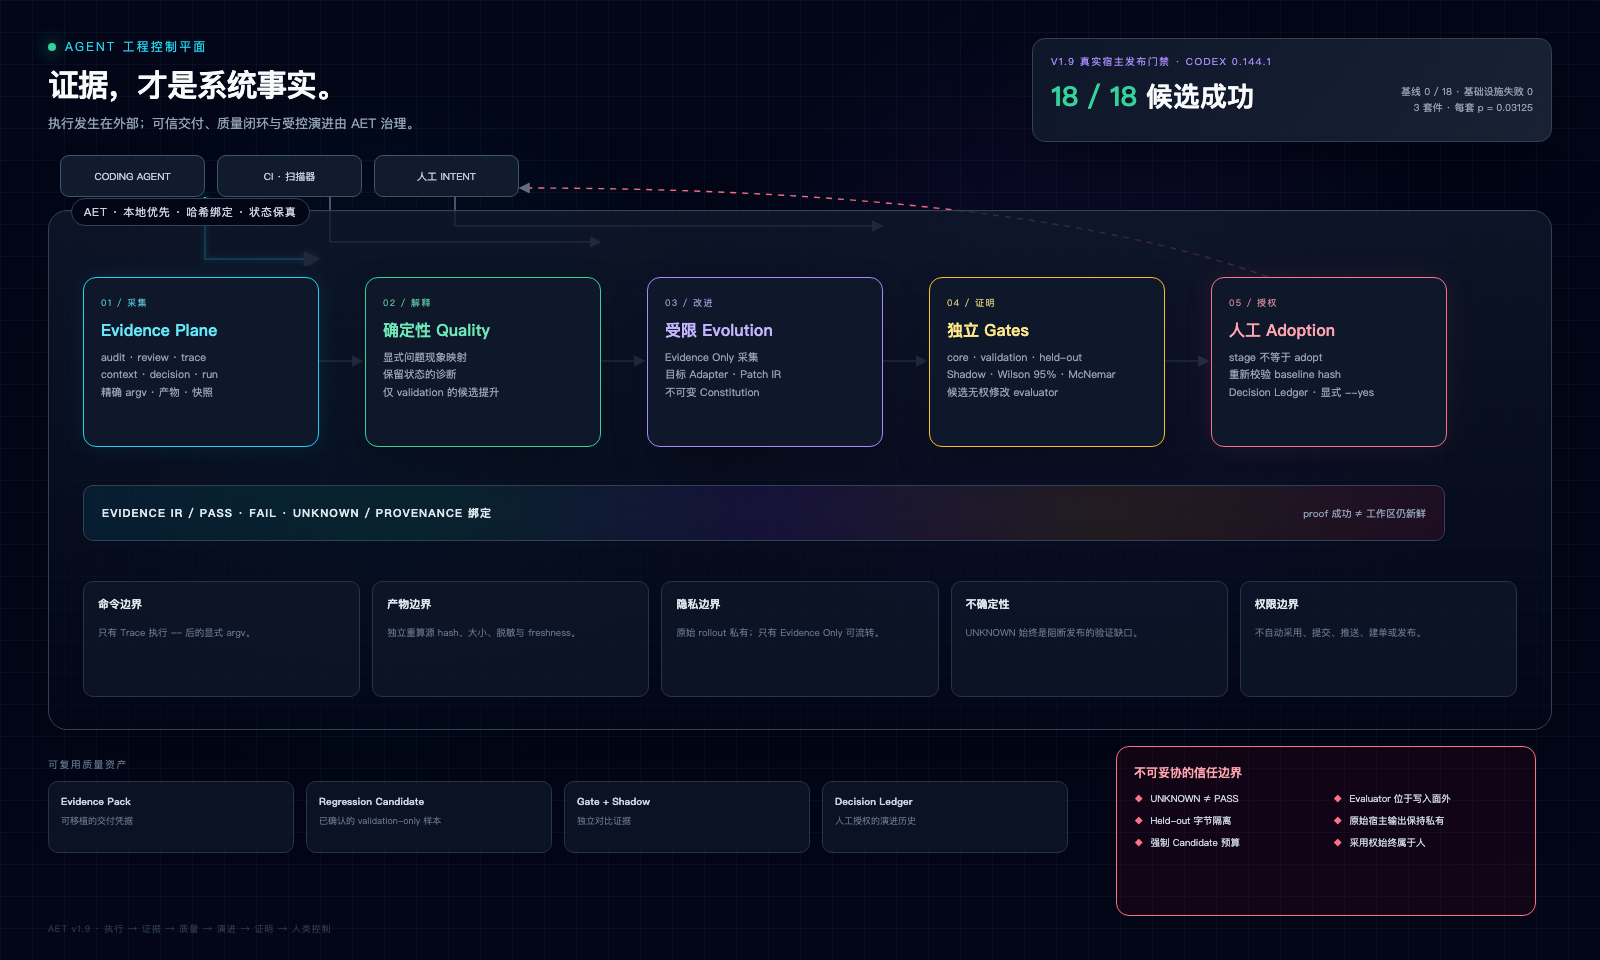
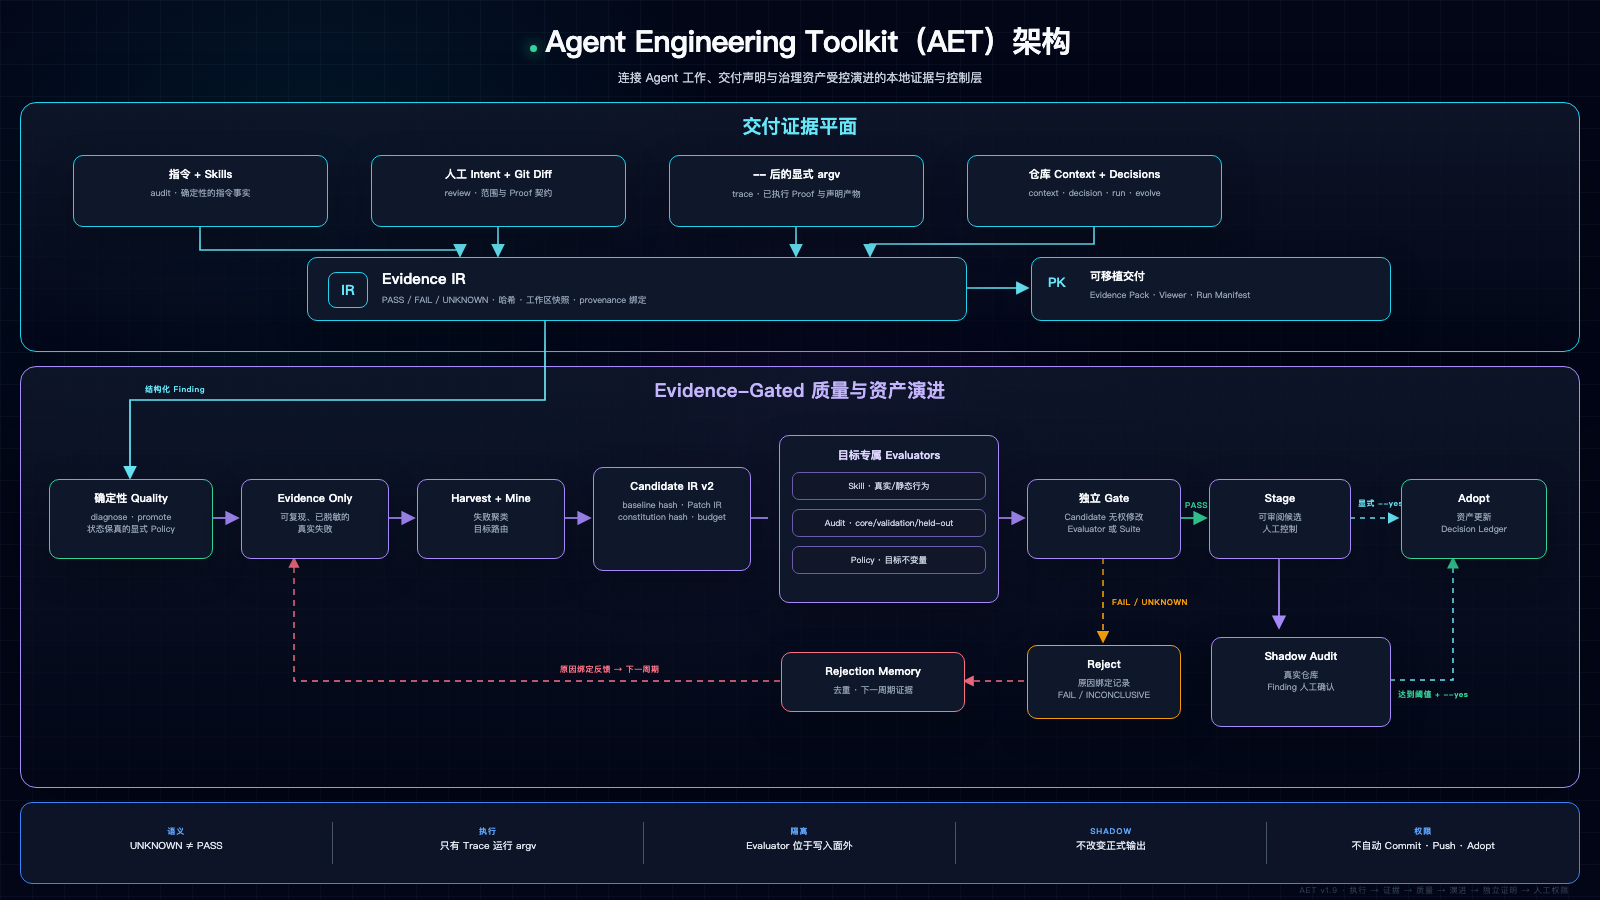
docs: clarify AET architecture relationships

diff --git a/docs/assets/aet-architecture-en.html b/docs/assets/aet-architecture-en.html
@@ -4,26 +4,43 @@
 <meta charset="utf-8"><meta name="viewport" content="width=device-width,initial-scale=1">
 <title>AET Architecture</title>
 <style>
-*{box-sizing:border-box}html,body{margin:0;width:1600px;height:960px;overflow:hidden;background:#020617;color:#f8fafc;font-family:"JetBrains Mono","SFMono-Regular",Consolas,monospace}.canvas{position:relative;width:1600px;height:960px;padding:38px 48px;background:radial-gradient(circle at 68% 38%,rgba(124,58,237,.13),transparent 31%),radial-gradient(circle at 24% 45%,rgba(6,182,212,.1),transparent 27%),linear-gradient(rgba(30,41,59,.27) 1px,transparent 1px),linear-gradient(90deg,rgba(30,41,59,.27) 1px,transparent 1px),#020617;background-size:auto,auto,32px 32px,32px 32px}.eyebrow{color:#22d3ee;font-size:12px;letter-spacing:.22em;text-transform:uppercase}.title{margin-top:8px;font-size:31px;font-weight:800;letter-spacing:-.04em}.subtitle{margin-top:7px;color:#94a3b8;font-size:13px}.live{display:inline-block;width:8px;height:8px;margin-right:9px;border-radius:50%;background:#34d399;box-shadow:0 0 17px #34d399}.metric{position:absolute;top:38px;right:48px;width:520px;height:104px;border:1px solid #334155;border-radius:13px;background:linear-gradient(120deg,rgba(15,23,42,.94),rgba(30,41,59,.8));padding:15px 18px;box-shadow:0 18px 70px rgba(0,0,0,.35)}.metric-label{font-size:10px;color:#a78bfa;letter-spacing:.16em}.metric-row{display:flex;justify-content:space-between;align-items:end;margin-top:9px}.big{font-size:27px;font-weight:800}.big em{font-style:normal;color:#34d399}.metric-note{font-size:10px;color:#94a3b8;text-align:right;line-height:1.55}.boundary{position:absolute;left:48px;top:210px;width:1504px;height:520px;border:1px solid #334155;border-radius:19px;background:linear-gradient(180deg,rgba(15,23,42,.82),rgba(2,6,23,.6));box-shadow:inset 0 1px rgba(255,255,255,.03),0 30px 100px rgba(0,0,0,.25)}.boundary-title{position:absolute;top:-13px;left:22px;padding:5px 12px;border:1px solid #334155;border-radius:99px;background:#020617;color:#cbd5e1;font-size:11px;letter-spacing:.1em}.plane{position:absolute;top:66px;width:236px;height:170px;border-radius:13px;padding:18px 17px;background:#0f172a;box-shadow:0 15px 36px rgba(0,0,0,.24)}.plane .index{font-size:9px;letter-spacing:.18em;opacity:.78}.plane h2{margin:10px 0 8px;font-size:16px}.plane p{margin:0;color:#94a3b8;font-size:10.5px;line-height:1.65}.evidence{left:34px;border:1px solid #22d3ee;box-shadow:0 0 26px rgba(34,211,238,.09)}.evidence .index,.evidence h2{color:#67e8f9}.quality{left:316px;border:1px solid #34d399}.quality .index,.quality h2{color:#6ee7b7}.evolution{left:598px;border:1px solid #a78bfa}.evolution .index,.evolution h2{color:#c4b5fd}.gate{left:880px;border:1px solid #fbbf24}.gate .index,.gate h2{color:#fde68a}.human{left:1162px;border:1px solid #fb7185;box-shadow:0 0 30px rgba(251,113,133,.09)}.human .index,.human h2{color:#fda4af}.spine{position:absolute;left:34px;right:106px;top:274px;height:56px;border:1px solid #334155;border-radius:10px;background:linear-gradient(90deg,rgba(8,145,178,.12),rgba(16,185,129,.11),rgba(124,58,237,.13),rgba(245,158,11,.1),rgba(225,29,72,.1));display:flex;align-items:center;padding:0 18px}.spine strong{font-size:11px;color:#e2e8f0;letter-spacing:.12em}.spine span{margin-left:auto;color:#94a3b8;font-size:10px}.rail{position:absolute;left:34px;right:34px;bottom:32px;height:116px;display:grid;grid-template-columns:repeat(5,1fr);gap:12px}.asset{border:1px solid #263449;border-radius:10px;background:rgba(15,23,42,.72);padding:14px}.asset b{display:block;font-size:11px;color:#e2e8f0;margin-bottom:7px}.asset span{font-size:9.5px;color:#64748b;line-height:1.5}.sources{position:absolute;left:60px;top:155px;display:flex;gap:12px}.source{width:145px;height:42px;border:1px solid #475569;border-radius:9px;background:#111c30;color:#cbd5e1;font-size:10px;display:flex;align-items:center;justify-content:center}.controls{position:absolute;right:64px;top:746px;width:420px;height:170px;border:1px solid #fb7185;border-radius:13px;background:rgba(76,5,25,.22);padding:17px}.controls h3{margin:0 0 11px;color:#fda4af;font-size:12px}.controls ul{list-style:none;padding:0;margin:0;display:grid;grid-template-columns:1fr 1fr;gap:9px 14px}.controls li{font-size:9.5px;color:#cbd5e1}.controls li:before{content:"◆";color:#fb7185;margin-right:7px}.outputs{position:absolute;left:48px;top:757px;width:1020px}.outputs-label{font-size:10px;color:#64748b;letter-spacing:.16em;margin-bottom:10px}.outputs-grid{display:grid;grid-template-columns:repeat(4,1fr);gap:12px}.output{height:72px;border:1px solid #263449;border-radius:10px;background:rgba(15,23,42,.75);padding:12px}.output b{display:block;color:#cbd5e1;font-size:10px}.output span{display:block;color:#64748b;font-size:9px;margin-top:6px}.footer{position:absolute;left:48px;bottom:25px;color:#334155;font-size:9px;letter-spacing:.12em}svg.wires{position:absolute;inset:0;width:1600px;height:960px;pointer-events:none}.flow{fill:none;stroke:#64748b;stroke-width:1.5}.flow-glow{fill:none;stroke:#22d3ee;stroke-width:2;filter:url(#glow)}.return{fill:none;stroke:#fb7185;stroke-width:1.4;stroke-dasharray:6 6}
+*{box-sizing:border-box}html,body{margin:0;width:1600px;height:900px;overflow:hidden;background:#020617;color:#f8fafc;font-family:"JetBrains Mono","SFMono-Regular",Consolas,monospace}.canvas{position:relative;width:1600px;height:900px;padding:20px;background:radial-gradient(circle at 52% 46%,rgba(124,58,237,.12),transparent 34%),radial-gradient(circle at 20% 24%,rgba(6,182,212,.11),transparent 29%),linear-gradient(rgba(30,41,59,.25) 1px,transparent 1px),linear-gradient(90deg,rgba(30,41,59,.25) 1px,transparent 1px),#020617;background-size:auto,auto,32px 32px,32px 32px}.header{text-align:center;height:84px}.title{font-family:Inter,"SF Pro Display",sans-serif;font-size:30px;font-weight:800;letter-spacing:-.025em}.subtitle{margin-top:7px;color:#cbd5e1;font-size:12px}.pulse{display:inline-block;width:7px;height:7px;margin-right:9px;border-radius:50%;background:#34d399;box-shadow:0 0 14px #34d399}.zone{position:absolute;left:20px;width:1560px;border-radius:16px;background:linear-gradient(180deg,rgba(15,23,42,.84),rgba(2,6,23,.68));box-shadow:inset 0 1px rgba(255,255,255,.04),0 18px 65px rgba(0,0,0,.25)}.evidence-zone{top:102px;height:250px;border:1.5px solid #22d3ee}.evolution-zone{top:366px;height:422px;border:1.5px solid #a78bfa}.zone-label{position:absolute;top:10px;left:0;right:0;text-align:center;font-family:Inter,"SF Pro Display",sans-serif;font-size:19px;font-weight:750;letter-spacing:.01em}.evidence-zone .zone-label{color:#67e8f9}.evolution-zone .zone-label{color:#c4b5fd}.node{position:absolute;border-radius:10px;background:#0f172a;padding:11px 12px;text-align:center;box-shadow:0 12px 34px rgba(0,0,0,.25)}.node b{display:block;font-size:11px;line-height:1.35}.node span{display:block;margin-top:5px;color:#94a3b8;font-size:8.7px;line-height:1.42}.cyan{border:1.3px solid #22d3ee}.violet{border:1.3px solid #a78bfa}.amber{border:1.3px solid #f59e0b}.emerald{border:1.3px solid #34d399}.rose{border:1.3px solid #fb7185}.source{top:52px;width:255px;height:72px}.s1{left:52px}.s2{left:350px}.s3{left:648px}.s4{left:946px}.ir{left:286px;top:154px;width:660px;height:64px;text-align:left;padding-left:74px}.ir:before{content:"IR";position:absolute;left:20px;top:14px;width:38px;height:34px;border:1px solid #22d3ee;border-radius:8px;color:#67e8f9;font-weight:800;font-size:14px;display:flex;align-items:center;justify-content:center}.ir b{font-size:15px}.pack{left:1010px;top:154px;width:360px;height:64px;text-align:left;padding-left:58px}.pack:before{content:"PK";position:absolute;left:16px;top:15px;color:#67e8f9;font-size:13px;font-weight:800}.q{left:28px;top:112px;width:164px;height:80px}.only{left:220px;top:112px;width:148px;height:80px}.mine{left:396px;top:112px;width:148px;height:80px}.candidate{left:572px;top:100px;width:158px;height:104px}.evaluators{left:758px;top:68px;width:220px;height:168px;padding:12px}.evaluators b{color:#ddd6fe}.eval{margin-top:9px;padding:7px 5px;border:1px solid #6d5aa9;border-radius:7px;background:#111629;font-size:8.5px;color:#cbd5e1}.gate{left:1006px;top:112px;width:154px;height:80px}.stage{left:1188px;top:112px;width:142px;height:80px}.adopt{left:1380px;top:112px;width:146px;height:80px}.reject{left:1006px;top:278px;width:154px;height:74px}.shadow{left:1190px;top:270px;width:180px;height:90px}.memory{left:760px;top:285px;width:184px;height:60px}.contract{position:absolute;left:20px;right:20px;bottom:16px;height:82px;border:1px solid #3b82f6;border-radius:12px;background:rgba(15,23,42,.88);display:grid;grid-template-columns:repeat(5,1fr);align-items:center;text-align:center}.contract div{height:42px;padding:4px 16px;border-right:1px solid #475569;color:#e2e8f0;font-size:10px;line-height:1.55}.contract div:last-child{border:0}.contract strong{display:block;color:#60a5fa;font-size:8px;letter-spacing:.12em}.wires{position:absolute;inset:0;width:1600px;height:900px;pointer-events:none}.flow{fill:none;stroke:#67e8f9;stroke-width:1.7}.evo{fill:none;stroke:#a78bfa;stroke-width:1.8}.ok{fill:none;stroke:#34d399;stroke-width:1.8}.fail{fill:none;stroke:#f59e0b;stroke-width:1.6;stroke-dasharray:6 5}.human{fill:none;stroke:#67e8f9;stroke-width:1.5;stroke-dasharray:5 5}.feedback{fill:none;stroke:#fb7185;stroke-width:1.4;stroke-dasharray:6 5}.label{font-size:8px;font-weight:700;letter-spacing:.06em}.legend{position:absolute;left:46px;top:747px;color:#64748b;font-size:8px;letter-spacing:.08em}.legend i{display:inline-block;width:24px;margin:0 7px 2px 18px;border-top:2px solid}.legend i:first-child{margin-left:0}.footer{position:absolute;right:31px;bottom:4px;color:#334155;font-size:8px;letter-spacing:.1em}
+.header,.node,.zone-label,.legend,.contract{z-index:3}.wires{z-index:2}
 </style>
 </head>
 <body><main class="canvas">
-<div class="eyebrow"><span class="live"></span>Agent Engineering Control Plane</div>
-<div class="title">Evidence is the system of record.</div>
-<div class="subtitle">Execution is external. Trust, quality and evolution are governed here.</div>
-<section class="metric"><div class="metric-label">V1.9 REAL-HOST RELEASE GATE · CODEX 0.144.1</div><div class="metric-row"><div class="big"><em>18 / 18</em> candidate</div><div class="metric-note">baseline 0 / 18 · infra 0<br>3 suites · p = 0.03125 each</div></div></section>
-<div class="sources"><div class="source">CODING AGENTS</div><div class="source">CI · SCANNERS</div><div class="source">HUMAN INTENT</div></div>
-<svg class="wires" viewBox="0 0 1600 960"><defs><marker id="arrow" markerWidth="8" markerHeight="8" refX="7" refY="4" orient="auto"><path d="M0,0 L8,4 L0,8 Z" fill="#64748b"/></marker><filter id="glow"><feGaussianBlur stdDeviation="3" result="b"/><feMerge><feMergeNode in="b"/><feMergeNode in="SourceGraphic"/></feMerge></filter></defs><path class="flow-glow" marker-end="url(#arrow)" d="M205 197 L205 259 L318 259"/><path class="flow" marker-end="url(#arrow)" d="M330 197 L330 242 L600 242"/><path class="flow" marker-end="url(#arrow)" d="M455 197 L455 226 L882 226"/><path class="flow" marker-end="url(#arrow)" d="M318 361 L362 361"/><path class="flow" marker-end="url(#arrow)" d="M600 361 L644 361"/><path class="flow" marker-end="url(#arrow)" d="M882 361 L926 361"/><path class="flow" marker-end="url(#arrow)" d="M1164 361 L1208 361"/><path class="return" marker-end="url(#arrow)" d="M1370 446 C1490 446 1490 188 520 188"/></svg>
-<section class="boundary"><div class="boundary-title">AET · LOCAL-FIRST · HASH-BOUND · STATUS-PRESERVING</div>
-<article class="plane evidence"><div class="index">01 / CAPTURE</div><h2>Evidence Plane</h2><p>audit · review · trace<br>context · decision · run<br>exact argv · artifacts · snapshots</p></article>
-<article class="plane quality"><div class="index">02 / EXPLAIN</div><h2>Deterministic Quality</h2><p>explicit phenomenon mapping<br>status-preserving diagnosis<br>validation-only promotion</p></article>
-<article class="plane evolution"><div class="index">03 / IMPROVE</div><h2>Bounded Evolution</h2><p>Evidence Only harvest<br>target adapters · Patch IR<br>immutable Constitution</p></article>
-<article class="plane gate"><div class="index">04 / PROVE</div><h2>Independent Gates</h2><p>core · validation · held-out<br>Shadow · Wilson 95% · McNemar<br>candidate cannot edit evaluator</p></article>
-<article class="plane human"><div class="index">05 / AUTHORIZE</div><h2>Human Adoption</h2><p>stage ≠ adopt<br>baseline hash recheck<br>Decision Ledger · human --yes</p></article>
-<div class="spine"><strong>EVIDENCE IR / PASS · FAIL · UNKNOWN / PROVENANCE BINDINGS</strong><span>proof success ≠ workspace freshness</span></div>
-<div class="rail"><div class="asset"><b>Commands</b><span>Only Trace executes explicit argv after <code>--</code>.</span></div><div class="asset"><b>Artifacts</b><span>Source hash, size, redaction and freshness are recomputed.</span></div><div class="asset"><b>Privacy</b><span>Raw rollout material stays private; Evidence Only may travel.</span></div><div class="asset"><b>Uncertainty</b><span>UNKNOWN remains a release-blocking verification gap.</span></div><div class="asset"><b>Authority</b><span>No auto-adopt, commit, push, ticket or release.</span></div></div>
+<header class="header"><div class="title"><span class="pulse"></span>Agent Engineering Toolkit (AET) Architecture</div><div class="subtitle">The local evidence and control layer between Agent work, delivery claims and governed asset evolution</div></header>
+<section class="zone evidence-zone"><div class="zone-label">Delivery Evidence Plane</div>
+<div class="node cyan source s1"><b>Instructions + Skills</b><span>audit · deterministic instruction facts</span></div>
+<div class="node cyan source s2"><b>Human Intent + Git Diff</b><span>review · scope and proof contract</span></div>
+<div class="node cyan source s3"><b>Explicit argv after <code>--</code></b><span>trace · executed proof and declared artifacts</span></div>
+<div class="node cyan source s4"><b>Repository Context + Decisions</b><span>context · decision · run · evolve</span></div>
+<div class="node cyan ir"><b>Evidence IR</b><span>PASS / FAIL / UNKNOWN · hashes · workspace snapshot · provenance bindings</span></div>
+<div class="node cyan pack"><b>Portable Delivery</b><span>Evidence Pack · Viewer · Run Manifest</span></div>
 </section>
-<section class="outputs"><div class="outputs-label">REUSABLE QUALITY ASSETS</div><div class="outputs-grid"><div class="output"><b>Evidence Pack</b><span>portable delivery receipt</span></div><div class="output"><b>Regression Candidate</b><span>confirmed validation-only case</span></div><div class="output"><b>Gate + Shadow</b><span>independent comparison evidence</span></div><div class="output"><b>Decision Ledger</b><span>human-authorized history</span></div></div></section>
-<aside class="controls"><h3>NON-NEGOTIABLE TRUST BOUNDARIES</h3><ul><li>UNKNOWN ≠ PASS</li><li>Evaluator outside write surface</li><li>Held-out bytes stay separate</li><li>Raw host output stays private</li><li>Candidate budget is enforced</li><li>Adoption stays human</li></ul></aside>
-<div class="footer">AET v1.9 · EXECUTION → EVIDENCE → QUALITY → EVOLUTION → PROOF → HUMAN CONTROL</div>
+<section class="zone evolution-zone"><div class="zone-label">Evidence-Gated Quality &amp; Asset Evolution</div>
+<div class="node emerald q"><b>Deterministic Quality</b><span>diagnose · promote<br>status-preserving policy</span></div>
+<div class="node violet only"><b>Evidence Only</b><span>reproducible,<br>de-identified failures</span></div>
+<div class="node violet mine"><b>Harvest + Mine</b><span>pattern clustering<br>target routing</span></div>
+<div class="node violet candidate"><b>Candidate IR v2</b><span>baseline hash · Patch IR<br>constitution hash · budget</span></div>
+<div class="node violet evaluators"><b>Target-Specific Evaluators</b><div class="eval">Skill · real/static behavior</div><div class="eval">Audit · core/validation/held-out</div><div class="eval">Policy · target invariants</div></div>
+<div class="node violet gate"><b>Independent Gate</b><span>candidate cannot edit<br>evaluator or suite</span></div>
+<div class="node violet stage"><b>Stage</b><span>reviewable candidate<br>human-controlled</span></div>
+<div class="node emerald adopt"><b>Adopt</b><span>asset update<br>Decision Ledger</span></div>
+<div class="node amber reject"><b>Reject</b><span>reason-bound record<br>FAIL / INCONCLUSIVE</span></div>
+<div class="node violet shadow"><b>Shadow Audit</b><span>real repositories<br>finding confirmation</span></div>
+<div class="node rose memory"><b>Rejection Memory</b><span>dedupe · next-cycle evidence</span></div>
+<div class="legend"><i style="border-color:#67e8f9"></i>evidence <i style="border-color:#a78bfa"></i>candidate flow <i style="border-color:#34d399"></i>authorized pass <i style="border-color:#f59e0b"></i>blocked <i style="border-color:#fb7185"></i>feedback</div>
+</section>
+<section class="contract"><div><strong>SEMANTICS</strong>UNKNOWN ≠ PASS</div><div><strong>EXECUTION</strong>Only Trace runs argv</div><div><strong>ISOLATION</strong>Evaluator outside write surface</div><div><strong>SHADOW</strong>Never changes official output</div><div><strong>AUTHORITY</strong>No auto commit · push · adopt</div></section>
+<svg class="wires" viewBox="0 0 1600 900"><defs><marker id="ac" markerWidth="8" markerHeight="8" refX="7" refY="4" orient="auto"><path d="M0 0L8 4L0 8Z" fill="#67e8f9"/></marker><marker id="av" markerWidth="8" markerHeight="8" refX="7" refY="4" orient="auto"><path d="M0 0L8 4L0 8Z" fill="#a78bfa"/></marker><marker id="ag" markerWidth="8" markerHeight="8" refX="7" refY="4" orient="auto"><path d="M0 0L8 4L0 8Z" fill="#34d399"/></marker><marker id="ao" markerWidth="8" markerHeight="8" refX="7" refY="4" orient="auto"><path d="M0 0L8 4L0 8Z" fill="#f59e0b"/></marker><marker id="ar" markerWidth="8" markerHeight="8" refX="7" refY="4" orient="auto"><path d="M0 0L8 4L0 8Z" fill="#fb7185"/></marker></defs>
+<path class="flow" marker-end="url(#ac)" d="M200 226V250H460V256"/><path class="flow" marker-end="url(#ac)" d="M498 226V256"/><path class="flow" marker-end="url(#ac)" d="M796 226V256"/><path class="flow" marker-end="url(#ac)" d="M1094 226V244H870V256"/><path class="flow" marker-end="url(#ac)" d="M966 288H1028"/>
+<path class="flow" marker-end="url(#ac)" d="M545 320V400H130V478"/><text class="label" x="145" y="392" fill="#67e8f9">structured findings</text>
+<path class="evo" marker-end="url(#av)" d="M212 518H238"/><path class="evo" marker-end="url(#av)" d="M388 518H414"/><path class="evo" marker-end="url(#av)" d="M564 518H590"/><path class="evo" d="M750 518H768"/><path class="evo" marker-end="url(#av)" d="M998 518H1024"/><path class="ok" marker-end="url(#ag)" d="M1180 518H1206"/><text class="label" x="1185" y="508" fill="#34d399">PASS</text>
+<path class="fail" marker-end="url(#ao)" d="M1103 558V642"/><text class="label" x="1112" y="605" fill="#f59e0b">FAIL / UNKNOWN</text>
+<path class="evo" marker-end="url(#av)" d="M1279 558V628"/><path class="human" marker-end="url(#ac)" d="M1350 518H1398"/><text class="label" x="1358" y="506" fill="#67e8f9">explicit --yes</text>
+<path class="human" marker-end="url(#ag)" d="M1390 680H1453V558"/><text class="label" x="1398" y="697" fill="#34d399">threshold + --yes</text>
+<path class="feedback" marker-end="url(#ar)" d="M1024 681H964"/><path class="feedback" marker-end="url(#ar)" d="M780 681H294V558"/><text class="label" x="560" y="672" fill="#fb7185">reason-bound feedback → next cycle</text>
+</svg>
+<div class="footer">AET v1.9 · EXECUTION → EVIDENCE → QUALITY → EVOLUTION → INDEPENDENT PROOF → HUMAN AUTHORITY</div>
 </main></body></html>

diff --git a/docs/assets/aet-architecture-zh-cn.html b/docs/assets/aet-architecture-zh-cn.html
@@ -4,26 +4,43 @@
 <meta charset="utf-8"><meta name="viewport" content="width=device-width,initial-scale=1">
 <title>AET 架构</title>
 <style>
-*{box-sizing:border-box}html,body{margin:0;width:1600px;height:960px;overflow:hidden;background:#020617;color:#f8fafc;font-family:"JetBrains Mono","SFMono-Regular","PingFang SC",monospace}.canvas{position:relative;width:1600px;height:960px;padding:38px 48px;background:radial-gradient(circle at 68% 38%,rgba(124,58,237,.13),transparent 31%),radial-gradient(circle at 24% 45%,rgba(6,182,212,.1),transparent 27%),linear-gradient(rgba(30,41,59,.27) 1px,transparent 1px),linear-gradient(90deg,rgba(30,41,59,.27) 1px,transparent 1px),#020617;background-size:auto,auto,32px 32px,32px 32px}.eyebrow{color:#22d3ee;font-size:12px;letter-spacing:.18em}.title{margin-top:8px;font-size:31px;font-weight:800;letter-spacing:-.04em}.subtitle{margin-top:7px;color:#94a3b8;font-size:13px}.live{display:inline-block;width:8px;height:8px;margin-right:9px;border-radius:50%;background:#34d399;box-shadow:0 0 17px #34d399}.metric{position:absolute;top:38px;right:48px;width:520px;height:104px;border:1px solid #334155;border-radius:13px;background:linear-gradient(120deg,rgba(15,23,42,.94),rgba(30,41,59,.8));padding:15px 18px;box-shadow:0 18px 70px rgba(0,0,0,.35)}.metric-label{font-size:10px;color:#a78bfa;letter-spacing:.13em}.metric-row{display:flex;justify-content:space-between;align-items:end;margin-top:9px}.big{font-size:27px;font-weight:800}.big em{font-style:normal;color:#34d399}.metric-note{font-size:10px;color:#94a3b8;text-align:right;line-height:1.55}.boundary{position:absolute;left:48px;top:210px;width:1504px;height:520px;border:1px solid #334155;border-radius:19px;background:linear-gradient(180deg,rgba(15,23,42,.82),rgba(2,6,23,.6));box-shadow:inset 0 1px rgba(255,255,255,.03),0 30px 100px rgba(0,0,0,.25)}.boundary-title{position:absolute;top:-13px;left:22px;padding:5px 12px;border:1px solid #334155;border-radius:99px;background:#020617;color:#cbd5e1;font-size:11px;letter-spacing:.08em}.plane{position:absolute;top:66px;width:236px;height:170px;border-radius:13px;padding:18px 17px;background:#0f172a;box-shadow:0 15px 36px rgba(0,0,0,.24)}.plane .index{font-size:9px;letter-spacing:.15em;opacity:.78}.plane h2{margin:10px 0 8px;font-size:16px}.plane p{margin:0;color:#94a3b8;font-size:10.5px;line-height:1.65}.evidence{left:34px;border:1px solid #22d3ee;box-shadow:0 0 26px rgba(34,211,238,.09)}.evidence .index,.evidence h2{color:#67e8f9}.quality{left:316px;border:1px solid #34d399}.quality .index,.quality h2{color:#6ee7b7}.evolution{left:598px;border:1px solid #a78bfa}.evolution .index,.evolution h2{color:#c4b5fd}.gate{left:880px;border:1px solid #fbbf24}.gate .index,.gate h2{color:#fde68a}.human{left:1162px;border:1px solid #fb7185;box-shadow:0 0 30px rgba(251,113,133,.09)}.human .index,.human h2{color:#fda4af}.spine{position:absolute;left:34px;right:106px;top:274px;height:56px;border:1px solid #334155;border-radius:10px;background:linear-gradient(90deg,rgba(8,145,178,.12),rgba(16,185,129,.11),rgba(124,58,237,.13),rgba(245,158,11,.1),rgba(225,29,72,.1));display:flex;align-items:center;padding:0 18px}.spine strong{font-size:11px;color:#e2e8f0;letter-spacing:.1em}.spine span{margin-left:auto;color:#94a3b8;font-size:10px}.rail{position:absolute;left:34px;right:34px;bottom:32px;height:116px;display:grid;grid-template-columns:repeat(5,1fr);gap:12px}.asset{border:1px solid #263449;border-radius:10px;background:rgba(15,23,42,.72);padding:14px}.asset b{display:block;font-size:11px;color:#e2e8f0;margin-bottom:7px}.asset span{font-size:9.5px;color:#64748b;line-height:1.5}.sources{position:absolute;left:60px;top:155px;display:flex;gap:12px}.source{width:145px;height:42px;border:1px solid #475569;border-radius:9px;background:#111c30;color:#cbd5e1;font-size:10px;display:flex;align-items:center;justify-content:center}.controls{position:absolute;right:64px;top:746px;width:420px;height:170px;border:1px solid #fb7185;border-radius:13px;background:rgba(76,5,25,.22);padding:17px}.controls h3{margin:0 0 11px;color:#fda4af;font-size:12px}.controls ul{list-style:none;padding:0;margin:0;display:grid;grid-template-columns:1fr 1fr;gap:9px 14px}.controls li{font-size:9.5px;color:#cbd5e1}.controls li:before{content:"◆";color:#fb7185;margin-right:7px}.outputs{position:absolute;left:48px;top:757px;width:1020px}.outputs-label{font-size:10px;color:#64748b;letter-spacing:.14em;margin-bottom:10px}.outputs-grid{display:grid;grid-template-columns:repeat(4,1fr);gap:12px}.output{height:72px;border:1px solid #263449;border-radius:10px;background:rgba(15,23,42,.75);padding:12px}.output b{display:block;color:#cbd5e1;font-size:10px}.output span{display:block;color:#64748b;font-size:9px;margin-top:6px}.footer{position:absolute;left:48px;bottom:25px;color:#334155;font-size:9px;letter-spacing:.1em}svg.wires{position:absolute;inset:0;width:1600px;height:960px;pointer-events:none}.flow{fill:none;stroke:#64748b;stroke-width:1.5}.flow-glow{fill:none;stroke:#22d3ee;stroke-width:2;filter:url(#glow)}.return{fill:none;stroke:#fb7185;stroke-width:1.4;stroke-dasharray:6 6}
+*{box-sizing:border-box}html,body{margin:0;width:1600px;height:900px;overflow:hidden;background:#020617;color:#f8fafc;font-family:"JetBrains Mono","SFMono-Regular","PingFang SC",monospace}.canvas{position:relative;width:1600px;height:900px;padding:20px;background:radial-gradient(circle at 52% 46%,rgba(124,58,237,.12),transparent 34%),radial-gradient(circle at 20% 24%,rgba(6,182,212,.11),transparent 29%),linear-gradient(rgba(30,41,59,.25) 1px,transparent 1px),linear-gradient(90deg,rgba(30,41,59,.25) 1px,transparent 1px),#020617;background-size:auto,auto,32px 32px,32px 32px}.header{text-align:center;height:84px}.title{font-family:Inter,"PingFang SC",sans-serif;font-size:30px;font-weight:800;letter-spacing:-.025em}.subtitle{margin-top:7px;color:#cbd5e1;font-size:12px}.pulse{display:inline-block;width:7px;height:7px;margin-right:9px;border-radius:50%;background:#34d399;box-shadow:0 0 14px #34d399}.zone{position:absolute;left:20px;width:1560px;border-radius:16px;background:linear-gradient(180deg,rgba(15,23,42,.84),rgba(2,6,23,.68));box-shadow:inset 0 1px rgba(255,255,255,.04),0 18px 65px rgba(0,0,0,.25)}.evidence-zone{top:102px;height:250px;border:1.5px solid #22d3ee}.evolution-zone{top:366px;height:422px;border:1.5px solid #a78bfa}.zone-label{position:absolute;top:10px;left:0;right:0;text-align:center;font-family:Inter,"PingFang SC",sans-serif;font-size:19px;font-weight:750;letter-spacing:.01em}.evidence-zone .zone-label{color:#67e8f9}.evolution-zone .zone-label{color:#c4b5fd}.node{position:absolute;border-radius:10px;background:#0f172a;padding:11px 12px;text-align:center;box-shadow:0 12px 34px rgba(0,0,0,.25)}.node b{display:block;font-size:11px;line-height:1.35}.node span{display:block;margin-top:5px;color:#94a3b8;font-size:8.7px;line-height:1.42}.cyan{border:1.3px solid #22d3ee}.violet{border:1.3px solid #a78bfa}.amber{border:1.3px solid #f59e0b}.emerald{border:1.3px solid #34d399}.rose{border:1.3px solid #fb7185}.source{top:52px;width:255px;height:72px}.s1{left:52px}.s2{left:350px}.s3{left:648px}.s4{left:946px}.ir{left:286px;top:154px;width:660px;height:64px;text-align:left;padding-left:74px}.ir:before{content:"IR";position:absolute;left:20px;top:14px;width:38px;height:34px;border:1px solid #22d3ee;border-radius:8px;color:#67e8f9;font-weight:800;font-size:14px;display:flex;align-items:center;justify-content:center}.ir b{font-size:15px}.pack{left:1010px;top:154px;width:360px;height:64px;text-align:left;padding-left:58px}.pack:before{content:"PK";position:absolute;left:16px;top:15px;color:#67e8f9;font-size:13px;font-weight:800}.q{left:28px;top:112px;width:164px;height:80px}.only{left:220px;top:112px;width:148px;height:80px}.mine{left:396px;top:112px;width:148px;height:80px}.candidate{left:572px;top:100px;width:158px;height:104px}.evaluators{left:758px;top:68px;width:220px;height:168px;padding:12px}.evaluators b{color:#ddd6fe}.eval{margin-top:9px;padding:7px 5px;border:1px solid #6d5aa9;border-radius:7px;background:#111629;font-size:8.5px;color:#cbd5e1}.gate{left:1006px;top:112px;width:154px;height:80px}.stage{left:1188px;top:112px;width:142px;height:80px}.adopt{left:1380px;top:112px;width:146px;height:80px}.reject{left:1006px;top:278px;width:154px;height:74px}.shadow{left:1190px;top:270px;width:180px;height:90px}.memory{left:760px;top:285px;width:184px;height:60px}.contract{position:absolute;left:20px;right:20px;bottom:16px;height:82px;border:1px solid #3b82f6;border-radius:12px;background:rgba(15,23,42,.88);display:grid;grid-template-columns:repeat(5,1fr);align-items:center;text-align:center}.contract div{height:42px;padding:4px 16px;border-right:1px solid #475569;color:#e2e8f0;font-size:10px;line-height:1.55}.contract div:last-child{border:0}.contract strong{display:block;color:#60a5fa;font-size:8px;letter-spacing:.12em}.wires{position:absolute;inset:0;width:1600px;height:900px;pointer-events:none}.flow{fill:none;stroke:#67e8f9;stroke-width:1.7}.evo{fill:none;stroke:#a78bfa;stroke-width:1.8}.ok{fill:none;stroke:#34d399;stroke-width:1.8}.fail{fill:none;stroke:#f59e0b;stroke-width:1.6;stroke-dasharray:6 5}.human{fill:none;stroke:#67e8f9;stroke-width:1.5;stroke-dasharray:5 5}.feedback{fill:none;stroke:#fb7185;stroke-width:1.4;stroke-dasharray:6 5}.label{font-size:8px;font-weight:700;letter-spacing:.06em}.legend{position:absolute;left:46px;top:747px;color:#64748b;font-size:8px;letter-spacing:.08em}.legend i{display:inline-block;width:24px;margin:0 7px 2px 18px;border-top:2px solid}.legend i:first-child{margin-left:0}.footer{position:absolute;right:31px;bottom:4px;color:#334155;font-size:8px;letter-spacing:.1em}
+.header,.node,.zone-label,.legend,.contract{z-index:3}.wires{z-index:2}
 </style>
 </head>
 <body><main class="canvas">
-<div class="eyebrow"><span class="live"></span>AGENT 工程控制平面</div>
-<div class="title">证据，才是系统事实。</div>
-<div class="subtitle">执行发生在外部；可信交付、质量闭环与受控演进由 AET 治理。</div>
-<section class="metric"><div class="metric-label">V1.9 真实宿主发布门禁 · CODEX 0.144.1</div><div class="metric-row"><div class="big"><em>18 / 18</em> 候选成功</div><div class="metric-note">基线 0 / 18 · 基础设施失败 0<br>3 套件 · 每套 p = 0.03125</div></div></section>
-<div class="sources"><div class="source">CODING AGENT</div><div class="source">CI · 扫描器</div><div class="source">人工 INTENT</div></div>
-<svg class="wires" viewBox="0 0 1600 960"><defs><marker id="arrow" markerWidth="8" markerHeight="8" refX="7" refY="4" orient="auto"><path d="M0,0 L8,4 L0,8 Z" fill="#64748b"/></marker><filter id="glow"><feGaussianBlur stdDeviation="3" result="b"/><feMerge><feMergeNode in="b"/><feMergeNode in="SourceGraphic"/></feMerge></filter></defs><path class="flow-glow" marker-end="url(#arrow)" d="M205 197 L205 259 L318 259"/><path class="flow" marker-end="url(#arrow)" d="M330 197 L330 242 L600 242"/><path class="flow" marker-end="url(#arrow)" d="M455 197 L455 226 L882 226"/><path class="flow" marker-end="url(#arrow)" d="M318 361 L362 361"/><path class="flow" marker-end="url(#arrow)" d="M600 361 L644 361"/><path class="flow" marker-end="url(#arrow)" d="M882 361 L926 361"/><path class="flow" marker-end="url(#arrow)" d="M1164 361 L1208 361"/><path class="return" marker-end="url(#arrow)" d="M1370 446 C1490 446 1490 188 520 188"/></svg>
-<section class="boundary"><div class="boundary-title">AET · 本地优先 · 哈希绑定 · 状态保真</div>
-<article class="plane evidence"><div class="index">01 / 采集</div><h2>Evidence Plane</h2><p>audit · review · trace<br>context · decision · run<br>精确 argv · 产物 · 快照</p></article>
-<article class="plane quality"><div class="index">02 / 解释</div><h2>确定性 Quality</h2><p>显式问题现象映射<br>保留状态的诊断<br>仅 validation 的候选提升</p></article>
-<article class="plane evolution"><div class="index">03 / 改进</div><h2>受限 Evolution</h2><p>Evidence Only 采集<br>目标 Adapter · Patch IR<br>不可变 Constitution</p></article>
-<article class="plane gate"><div class="index">04 / 证明</div><h2>独立 Gates</h2><p>core · validation · held-out<br>Shadow · Wilson 95% · McNemar<br>候选无权修改 evaluator</p></article>
-<article class="plane human"><div class="index">05 / 授权</div><h2>人工 Adoption</h2><p>stage 不等于 adopt<br>重新校验 baseline hash<br>Decision Ledger · 显式 --yes</p></article>
-<div class="spine"><strong>EVIDENCE IR / PASS · FAIL · UNKNOWN / PROVENANCE 绑定</strong><span>proof 成功 ≠ 工作区仍新鲜</span></div>
-<div class="rail"><div class="asset"><b>命令边界</b><span>只有 Trace 执行 <code>--</code> 后的显式 argv。</span></div><div class="asset"><b>产物边界</b><span>独立重算源 hash、大小、脱敏与 freshness。</span></div><div class="asset"><b>隐私边界</b><span>原始 rollout 私有；只有 Evidence Only 可流转。</span></div><div class="asset"><b>不确定性</b><span>UNKNOWN 始终是阻断发布的验证缺口。</span></div><div class="asset"><b>权限边界</b><span>不自动采用、提交、推送、建单或发布。</span></div></div>
+<header class="header"><div class="title"><span class="pulse"></span>Agent Engineering Toolkit（AET）架构</div><div class="subtitle">连接 Agent 工作、交付声明与治理资产受控演进的本地证据与控制层</div></header>
+<section class="zone evidence-zone"><div class="zone-label">交付证据平面</div>
+<div class="node cyan source s1"><b>指令 + Skills</b><span>audit · 确定性的指令事实</span></div>
+<div class="node cyan source s2"><b>人工 Intent + Git Diff</b><span>review · 范围与 Proof 契约</span></div>
+<div class="node cyan source s3"><b><code>--</code> 后的显式 argv</b><span>trace · 已执行 Proof 与声明产物</span></div>
+<div class="node cyan source s4"><b>仓库 Context + Decisions</b><span>context · decision · run · evolve</span></div>
+<div class="node cyan ir"><b>Evidence IR</b><span>PASS / FAIL / UNKNOWN · 哈希 · 工作区快照 · provenance 绑定</span></div>
+<div class="node cyan pack"><b>可移植交付</b><span>Evidence Pack · Viewer · Run Manifest</span></div>
 </section>
-<section class="outputs"><div class="outputs-label">可复用质量资产</div><div class="outputs-grid"><div class="output"><b>Evidence Pack</b><span>可移植的交付凭据</span></div><div class="output"><b>Regression Candidate</b><span>已确认的 validation-only 样本</span></div><div class="output"><b>Gate + Shadow</b><span>独立对比证据</span></div><div class="output"><b>Decision Ledger</b><span>人工授权的演进历史</span></div></div></section>
-<aside class="controls"><h3>不可妥协的信任边界</h3><ul><li>UNKNOWN ≠ PASS</li><li>Evaluator 位于写入面外</li><li>Held-out 字节隔离</li><li>原始宿主输出保持私有</li><li>强制 Candidate 预算</li><li>采用权始终属于人</li></ul></aside>
-<div class="footer">AET v1.9 · 执行 → 证据 → 质量 → 演进 → 证明 → 人类控制</div>
+<section class="zone evolution-zone"><div class="zone-label">Evidence-Gated 质量与资产演进</div>
+<div class="node emerald q"><b>确定性 Quality</b><span>diagnose · promote<br>状态保真的显式 Policy</span></div>
+<div class="node violet only"><b>Evidence Only</b><span>可复现、已脱敏的<br>真实失败</span></div>
+<div class="node violet mine"><b>Harvest + Mine</b><span>失败聚类<br>目标路由</span></div>
+<div class="node violet candidate"><b>Candidate IR v2</b><span>baseline hash · Patch IR<br>constitution hash · budget</span></div>
+<div class="node violet evaluators"><b>目标专属 Evaluators</b><div class="eval">Skill · 真实/静态行为</div><div class="eval">Audit · core/validation/held-out</div><div class="eval">Policy · 目标不变量</div></div>
+<div class="node violet gate"><b>独立 Gate</b><span>Candidate 无权修改<br>Evaluator 或 Suite</span></div>
+<div class="node violet stage"><b>Stage</b><span>可审阅候选<br>人工控制</span></div>
+<div class="node emerald adopt"><b>Adopt</b><span>资产更新<br>Decision Ledger</span></div>
+<div class="node amber reject"><b>Reject</b><span>原因绑定记录<br>FAIL / INCONCLUSIVE</span></div>
+<div class="node violet shadow"><b>Shadow Audit</b><span>真实仓库<br>Finding 人工确认</span></div>
+<div class="node rose memory"><b>Rejection Memory</b><span>去重 · 下一周期证据</span></div>
+<div class="legend"><i style="border-color:#67e8f9"></i>证据 <i style="border-color:#a78bfa"></i>候选流 <i style="border-color:#34d399"></i>授权通过 <i style="border-color:#f59e0b"></i>阻断 <i style="border-color:#fb7185"></i>反馈</div>
+</section>
+<section class="contract"><div><strong>语义</strong>UNKNOWN ≠ PASS</div><div><strong>执行</strong>只有 Trace 运行 argv</div><div><strong>隔离</strong>Evaluator 位于写入面外</div><div><strong>SHADOW</strong>不改变正式输出</div><div><strong>权限</strong>不自动 Commit · Push · Adopt</div></section>
+<svg class="wires" viewBox="0 0 1600 900"><defs><marker id="ac" markerWidth="8" markerHeight="8" refX="7" refY="4" orient="auto"><path d="M0 0L8 4L0 8Z" fill="#67e8f9"/></marker><marker id="av" markerWidth="8" markerHeight="8" refX="7" refY="4" orient="auto"><path d="M0 0L8 4L0 8Z" fill="#a78bfa"/></marker><marker id="ag" markerWidth="8" markerHeight="8" refX="7" refY="4" orient="auto"><path d="M0 0L8 4L0 8Z" fill="#34d399"/></marker><marker id="ao" markerWidth="8" markerHeight="8" refX="7" refY="4" orient="auto"><path d="M0 0L8 4L0 8Z" fill="#f59e0b"/></marker><marker id="ar" markerWidth="8" markerHeight="8" refX="7" refY="4" orient="auto"><path d="M0 0L8 4L0 8Z" fill="#fb7185"/></marker></defs>
+<path class="flow" marker-end="url(#ac)" d="M200 226V250H460V256"/><path class="flow" marker-end="url(#ac)" d="M498 226V256"/><path class="flow" marker-end="url(#ac)" d="M796 226V256"/><path class="flow" marker-end="url(#ac)" d="M1094 226V244H870V256"/><path class="flow" marker-end="url(#ac)" d="M966 288H1028"/>
+<path class="flow" marker-end="url(#ac)" d="M545 320V400H130V478"/><text class="label" x="145" y="392" fill="#67e8f9">结构化 Finding</text>
+<path class="evo" marker-end="url(#av)" d="M212 518H238"/><path class="evo" marker-end="url(#av)" d="M388 518H414"/><path class="evo" marker-end="url(#av)" d="M564 518H590"/><path class="evo" d="M750 518H768"/><path class="evo" marker-end="url(#av)" d="M998 518H1024"/><path class="ok" marker-end="url(#ag)" d="M1180 518H1206"/><text class="label" x="1185" y="508" fill="#34d399">PASS</text>
+<path class="fail" marker-end="url(#ao)" d="M1103 558V642"/><text class="label" x="1112" y="605" fill="#f59e0b">FAIL / UNKNOWN</text>
+<path class="evo" marker-end="url(#av)" d="M1279 558V628"/><path class="human" marker-end="url(#ac)" d="M1350 518H1398"/><text class="label" x="1358" y="506" fill="#67e8f9">显式 --yes</text>
+<path class="human" marker-end="url(#ag)" d="M1390 680H1453V558"/><text class="label" x="1398" y="697" fill="#34d399">达到阈值 + --yes</text>
+<path class="feedback" marker-end="url(#ar)" d="M1024 681H964"/><path class="feedback" marker-end="url(#ar)" d="M780 681H294V558"/><text class="label" x="560" y="672" fill="#fb7185">原因绑定反馈 → 下一周期</text>
+</svg>
+<div class="footer">AET v1.9 · 执行 → 证据 → 质量 → 演进 → 独立证明 → 人工权限</div>
 </main></body></html>